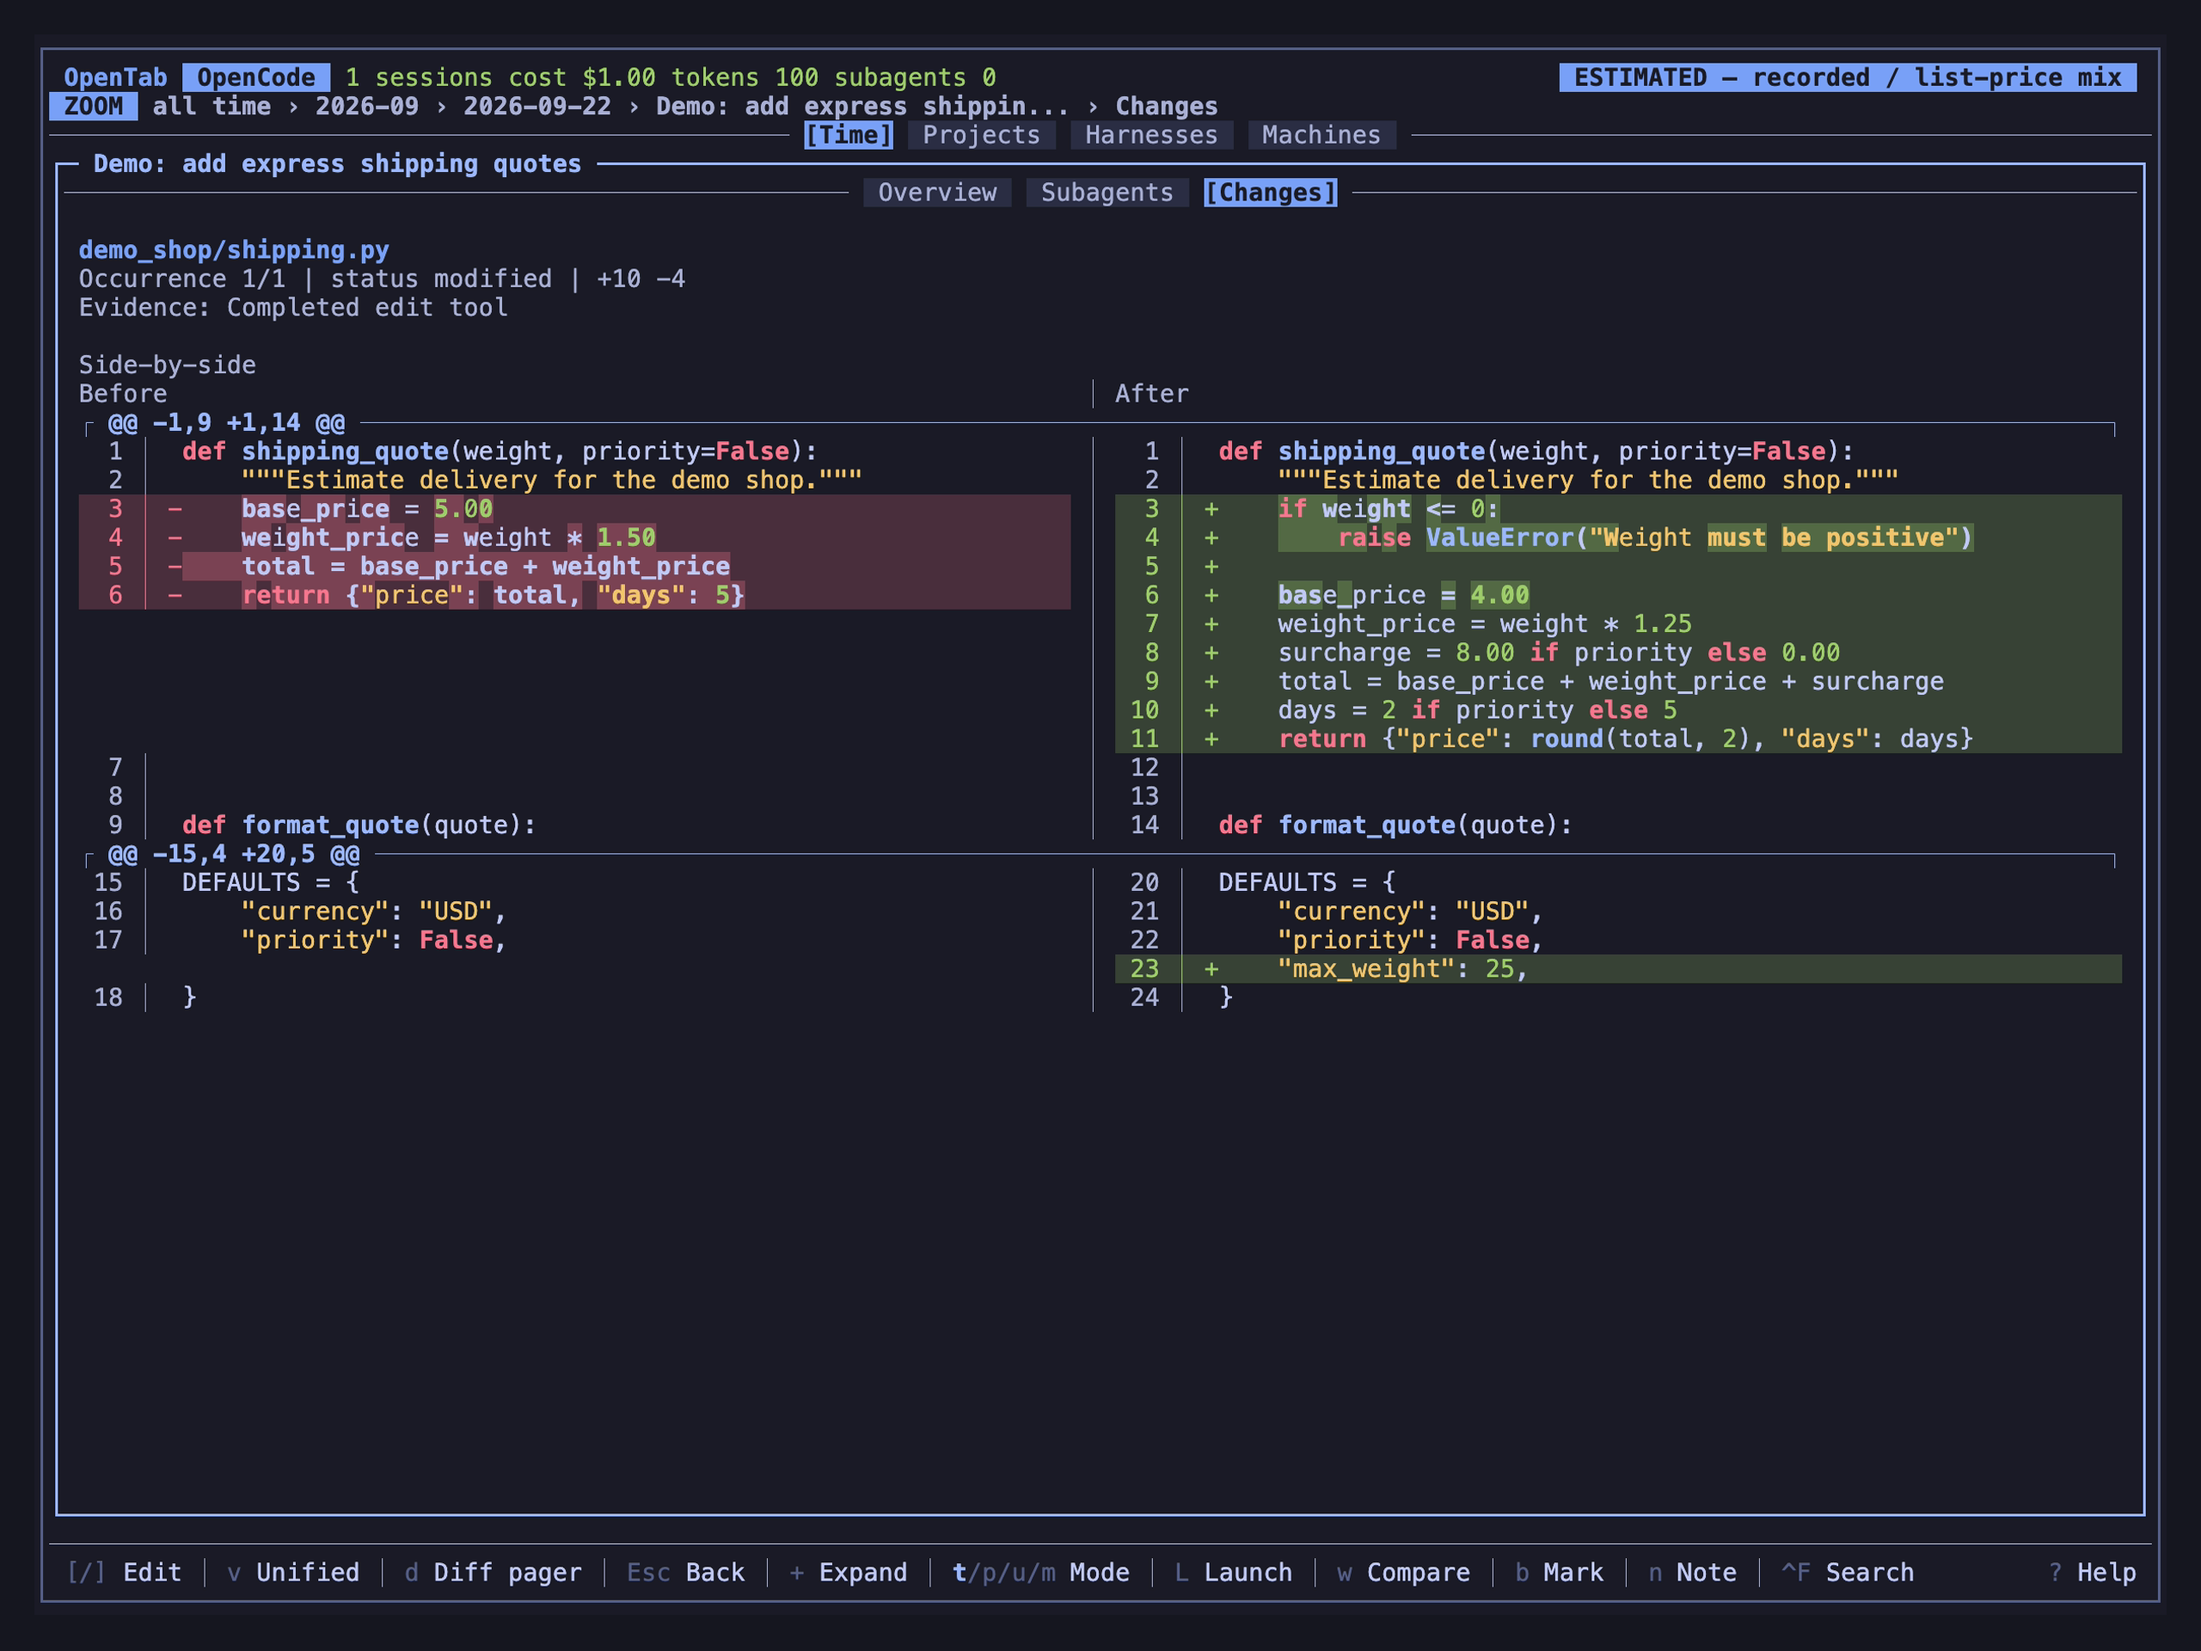
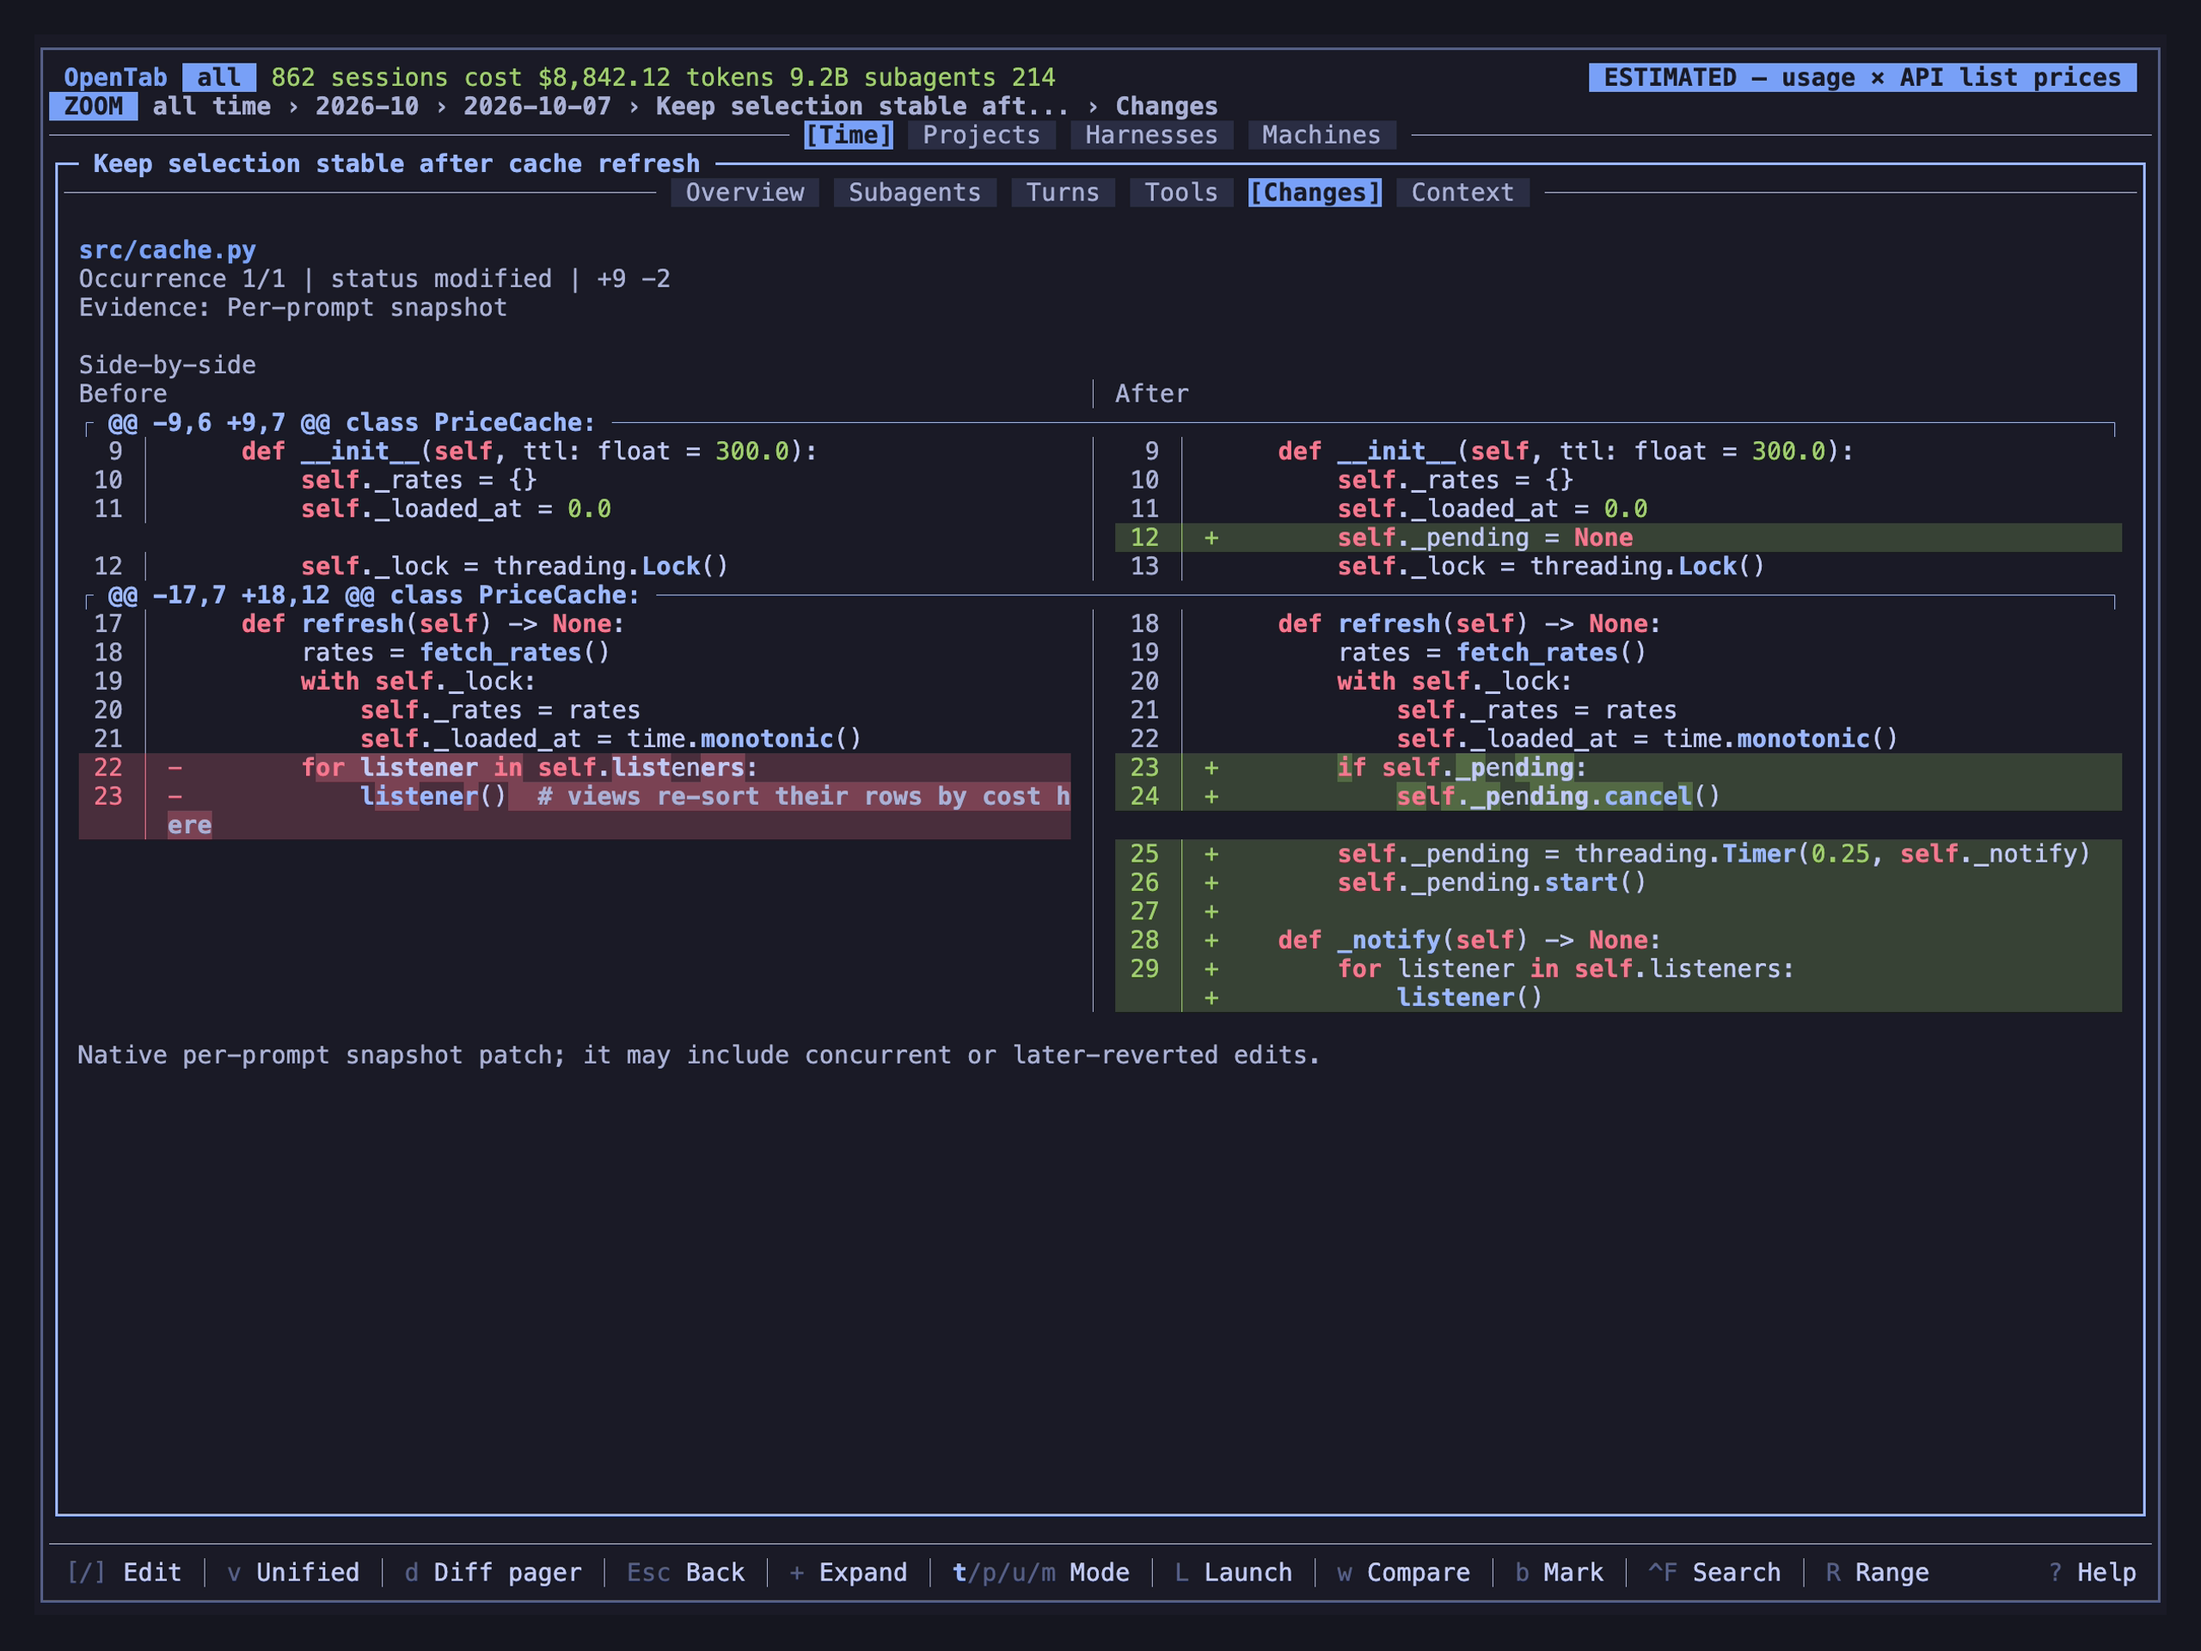
fix(site): replace the demo glow with a plain shadow in light mode

diff --git a/site/index.html b/site/index.html
@@ -21,7 +21,7 @@
 <meta name="twitter:card" content="summary_large_image">
 <link rel="preconnect" href="https://fonts.googleapis.com">
 <link rel="preconnect" href="https://fonts.gstatic.com" crossorigin>
-<link href="https://fonts.googleapis.com/css2?family=Bricolage+Grotesque:opsz,wdth,wght@12..96,75..100,300..800&family=JetBrains+Mono:wght@400;500;700&display=swap" rel="stylesheet">
+<link href="https://fonts.googleapis.com/css2?family=Bricolage+Grotesque:opsz,wdth,wght@12..96,75..100,300..800&family=Inter:opsz,wght@14..32,400..700&family=JetBrains+Mono:wght@400;500;700&display=swap" rel="stylesheet">
 <style>
 :root {
   /* Pulled straight from the TUI's default theme. */
@@ -42,7 +42,9 @@
   --t-input: #3f8ef0;
   --t-reasoning: #1fa774;
   --spectrum: linear-gradient(90deg, var(--t-cache-read), var(--t-output), var(--t-cache-write), var(--t-input), var(--t-reasoning));
+  /* Bricolage carries the headlines only; running text is a calm sans. */
   --display: "Bricolage Grotesque", system-ui, sans-serif;
+  --body: "Inter", system-ui, sans-serif;
   --mono: "JetBrains Mono", ui-monospace, monospace;
   --r: 14px;
   color-scheme: dark;
@@ -60,8 +62,7 @@ body {
   margin: 0;
   background: var(--ink);
   color: var(--text);
-  font: 17px/1.6 var(--display);
-  font-variation-settings: "opsz" 16;
+  font: 17px/1.6 var(--body);
   -webkit-font-smoothing: antialiased;
   overflow-x: hidden;
 }
@@ -98,7 +99,7 @@ nav.top .links a:hover { color: var(--text); }
 .hero-intro > * { min-width: 0; }
 .hero .eyebrow { margin: 0 0 24px; font: 500 12px var(--mono); color: var(--lav); letter-spacing: .07em; text-transform: uppercase; }
 .hero h1 {
-  margin: 0; max-width: 13ch; text-wrap: balance;
+  margin: 0; font-family: var(--display); max-width: 13ch; text-wrap: balance;
   font-size: clamp(44px, 4.5vw, 64px); line-height: 1.08; letter-spacing: -.02em;
   font-weight: 650; font-variation-settings: "opsz" 48, "wdth" 100;
 }
@@ -109,13 +110,13 @@ nav.top .links a:hover { color: var(--text); }
 .hero-primary { display: inline-flex; align-items: center; gap: 24px; padding: 13px 19px; background: var(--lav); color: var(--ink); text-decoration: none; border-radius: 9px; font-weight: 700; }
 .hero-primary:hover { filter: brightness(1.1); }
 .hero-secondary { font-size: 15px; text-underline-offset: 4px; }
-.hero-trust { margin: 22px 0 0; color: var(--dim); font: 11px/1.8 var(--mono); }
+.hero-trust { margin: 22px 0 0; color: var(--dim); font: 12px/1.8 var(--mono); }
 
 /* A small, inspectable story. All numbers come from one synthetic report. */
 .investigation { position: relative; border: 1px solid var(--line); border-radius: 16px; background: var(--ink-2); box-shadow: 0 28px 70px -40px #0009; overflow: hidden; }
 .investigation::before { content: ""; display: block; height: 3px; background: var(--spectrum); }
 .investigation [hidden] { display: none; }
-.story-topline { display: flex; justify-content: space-between; gap: 12px; padding: 17px 22px 14px; font: 10px var(--mono); color: var(--dim); letter-spacing: .07em; text-transform: uppercase; }
+.story-topline { display: flex; justify-content: space-between; gap: 12px; padding: 17px 22px 14px; font: 11px var(--mono); color: var(--dim); letter-spacing: .05em; text-transform: uppercase; }
 .story-topline span:first-child { color: var(--lav); }
 .story-tabs { display: grid; grid-template-columns: repeat(3, 1fr); padding: 0 14px; border-bottom: 1px solid var(--line); gap: 6px; }
 .story-tabs button { appearance: none; border: 0; border-bottom: 2px solid transparent; background: none; padding: 13px 5px; color: var(--dim); cursor: pointer; font: 12px var(--mono); }
@@ -124,47 +125,47 @@ nav.top .links a:hover { color: var(--text); }
 .story-panel { padding: 25px 26px 20px; min-height: 415px; animation: story-in .25s ease-out; }
 .story-panel[hidden] { display: none; }
 @keyframes story-in { from { opacity: .3; transform: translateY(5px); } to { opacity: 1; transform: none; } }
-.story-label { margin: 0 0 8px; font: 11px var(--mono); color: var(--dim); }
+.story-label { margin: 0 0 8px; font: 12px var(--mono); color: var(--dim); }
 .story-headline { display: flex; gap: 14px; align-items: baseline; margin-bottom: 14px; }
-.story-number { font: 600 42px/1.15 var(--mono); letter-spacing: -.065em; color: var(--text); }
+.story-number { font: 650 46px/1.1 var(--display); font-variant-numeric: tabular-nums; letter-spacing: -.01em; color: var(--text); }
 .story-headline small { color: var(--dim); font-size: 13px; }
-.story-panel h3 { margin: 0 0 16px; font-size: 22px; line-height: 1.25; letter-spacing: -.02em; }
+.story-panel h3 { margin: 0 0 16px; font-family: var(--display); font-size: 22px; line-height: 1.25; letter-spacing: -.02em; }
 .story-heatmap { display: grid; grid-template-rows: repeat(7, 1fr); grid-auto-flow: column; grid-auto-columns: minmax(0, 1fr); gap: 3px; height: 77px; margin-top: 18px; }
 .story-heatmap i { display: block; border-radius: 1px; background: color-mix(in srgb, var(--lav) var(--heat), var(--ink-3)); }
 .story-heatmap i.selected { background: var(--t-cache-write); outline: 2px solid var(--t-cache-write); outline-offset: 2px; z-index: 1; }
-.story-axis { display: flex; justify-content: space-between; margin-top: 9px; font: 10px var(--mono); color: var(--dim); }
+.story-axis { display: flex; justify-content: space-between; margin-top: 9px; font: 12px var(--mono); color: var(--dim); }
 .story-axis .selected-day { color: var(--t-cache-write); }
-.story-session { display: grid; grid-template-columns: minmax(0, 1fr) auto; gap: 14px; width: 100%; text-align: left; border: 0; border-bottom: 1px solid var(--line); background: none; padding: 11px 0; color: var(--dim); font: 12px/1.4 var(--display); }
+.story-session { display: grid; grid-template-columns: minmax(0, 1fr) auto; gap: 14px; width: 100%; text-align: left; border: 0; border-bottom: 1px solid var(--line); background: none; padding: 11px 0; color: var(--dim); font: 13px/1.4 var(--body); }
 button.story-session { cursor: pointer; }
 .story-session strong { font: 12px var(--mono); color: var(--text); }
 .story-session.featured { margin-top: 16px; border-radius: 7px; padding: 12px; background: var(--ink-3); color: var(--text); border: 1px solid var(--line); }
 .story-session.featured:hover { border-color: var(--lav); }
 .story-session.featured span::before { content: "↳ "; color: var(--lav); }
 .story-caption { margin: 12px 0 0; font-size: 13px; color: var(--dim); }
-.story-stats { display: flex; flex-wrap: wrap; gap: 6px 17px; font: 11px var(--mono); color: var(--dim); margin: -4px 0 22px; }
+.story-stats { display: flex; flex-wrap: wrap; gap: 6px 17px; font: 12px var(--mono); color: var(--dim); margin: -4px 0 22px; }
 .story-stats b { color: var(--text); font-weight: 500; }
 .story-node { position: relative; display: grid; grid-template-columns: minmax(0, 1fr) auto; gap: 12px; padding: 10px 0 14px; margin-left: calc(var(--depth) * 16px); font-size: 13px; line-height: 1.35; }
 .story-node .node-title { overflow: hidden; text-overflow: ellipsis; white-space: nowrap; }
 .story-node .node-title::before { content: "↳ "; color: var(--dim); }
 .story-node.root-node .node-title::before { content: "● "; color: var(--lav); }
-.story-node .node-cost { color: var(--text); font: 11px var(--mono); }
+.story-node .node-cost { color: var(--text); font: 12px var(--mono); }
 .story-node::after { content: ""; position: absolute; bottom: 4px; left: 0; width: var(--share); height: 3px; border-radius: 2px; background: var(--node-color); }
 .story-prompt { margin: 0 0 16px; padding: 12px 15px; border-left: 2px solid var(--lav); background: var(--ink-3); font-size: 14px; line-height: 1.5; }
 .story-turns { display: grid; grid-template-columns: repeat(4, 1fr); gap: 7px; margin: 12px 0 20px; }
 .story-turn { min-width: 0; }
-.story-turn small { display: block; color: var(--dim); font: 10px var(--mono); margin-bottom: 6px; }
+.story-turn small { display: block; color: var(--dim); font: 12px var(--mono); margin-bottom: 6px; }
 .story-turn code { display: block; color: var(--lav); font-size: 11px; white-space: nowrap; }
 .story-context { display: block; width: 100%; height: 70px; overflow: visible; }
 .story-context .context-fill { fill: color-mix(in srgb, var(--t-input) 12%, transparent); }
 .story-context polyline { fill: none; stroke: var(--t-input); stroke-width: 2; vector-effect: non-scaling-stroke; }
 .story-bottom { display: flex; align-items: center; justify-content: space-between; gap: 12px; padding: 16px 22px; border-top: 1px solid var(--line); }
-.story-bottom p { margin: 0; color: var(--dim); font: 10px var(--mono); }
+.story-bottom p { margin: 0; color: var(--dim); font: 12px var(--mono); }
 .story-next { appearance: none; cursor: pointer; background: none; border: 0; color: var(--lav); font: 600 12px var(--mono); padding: 4px 0; text-decoration: none; }
 .story-loading { padding: 60px 26px; color: var(--dim); }
 .hero-install { display: flex; align-items: center; justify-content: space-between; gap: 40px; margin-top: 52px; padding-top: 28px; border-top: 1px solid var(--line); text-align: left; scroll-margin-top: 85px; }
 .hero-install > p { flex: 1; color: var(--dim); font-size: 15px; text-wrap: pretty; }
 .hero-install > p span { display: block; }
-.hero-install > p strong { display: block; color: var(--text); font-size: 20px; margin-bottom: 5px; }
+.hero-install > p strong { display: block; font-family: var(--display); color: var(--text); font-size: 20px; margin-bottom: 5px; }
 .hero-install .install { margin: 0; }
 .stage { scroll-margin-top: 85px; }
 @media (max-width: 1000px) {
@@ -225,6 +226,9 @@ button.story-session { cursor: pointer; }
   animation: spin 18s linear infinite;
 }
 @keyframes spin { to { filter: blur(80px) saturate(130%) hue-rotate(360deg); } }
+/* On a light page the blurred token colours mix to brown; the dark app window gets a plain shadow instead. */
+:root[data-theme="light"] .glow { display: none; }
+:root[data-theme="light"] .stage .window { box-shadow: 0 1px 2px rgb(27 30 51 / .08), 0 24px 60px -12px rgb(27 30 51 / .28); }
 .window {
   position: relative; z-index: 1;
   border-radius: var(--r); overflow: hidden;
@@ -277,8 +281,8 @@ button.story-session { cursor: pointer; }
 section.block { padding: 80px 0 0; }
 .kicker { font: 500 14px var(--mono); color: var(--lav); margin: 0 0 14px; }
 h2 {
-  margin: 0; font-size: clamp(32px, 4.4vw, 54px); line-height: 1.04; letter-spacing: -.015em;
-  font-weight: 720; font-variation-settings: "opsz" 72, "wdth" 92; max-width: 18ch;
+  margin: 0; font-family: var(--display); font-size: clamp(32px, 4.4vw, 54px); line-height: 1.06; letter-spacing: -.012em;
+  font-weight: 680; font-variation-settings: "opsz" 72, "wdth" 100; max-width: 18ch;
 }
 .sub { color: var(--dim); max-width: 60ch; margin: 18px 0 0; font-size: 18px; }
 
@@ -287,7 +291,7 @@ h2 {
 .demo-intro h2 { max-width: 24ch; }
 .feature-views { display: grid; grid-template-columns: 190px minmax(0, 1fr); gap: 28px; margin-top: 32px; align-items: start; }
 .feature-tabs { display: grid; gap: 8px; }
-.feature-tabs button { text-align: left; border: 1px solid var(--line); border-radius: 9px; background: none; color: var(--dim); padding: 16px; font: 600 16px var(--display); cursor: pointer; }
+.feature-tabs button { text-align: left; border: 1px solid var(--line); border-radius: 9px; background: none; color: var(--dim); padding: 16px; font: 600 16px var(--body); cursor: pointer; }
 .feature-tabs button[aria-selected="true"] { color: var(--text); background: var(--ink-3); border-color: var(--frame); }
 .feature-panel { min-width: 0; }
 .feature-panel[hidden] { display: none; }
@@ -328,7 +332,7 @@ h2 {
 .tool-list li { padding: 16px 18px; background: var(--ink-2); font-size: 16px; }
 .workflow { display: grid; grid-template-columns: repeat(2, minmax(0, 1fr)); gap: 20px; margin-top: 28px; }
 .workflow article { min-width: 0; padding: 26px; background: var(--ink-2); border: 1px solid var(--line); border-radius: var(--r); }
-.workflow h3 { margin: 0; font-size: 23px; }
+.workflow h3 { margin: 0; font-family: var(--display); font-size: 23px; }
 .workflow p { color: var(--dim); margin: 12px 0 18px; }
 .workflow .command { display: flex; gap: 10px; align-items: center; margin-top: 10px; }
 .workflow .command code { min-width: 0; flex: 1; overflow-wrap: anywhere; color: var(--lav); font-size: 12px; }
